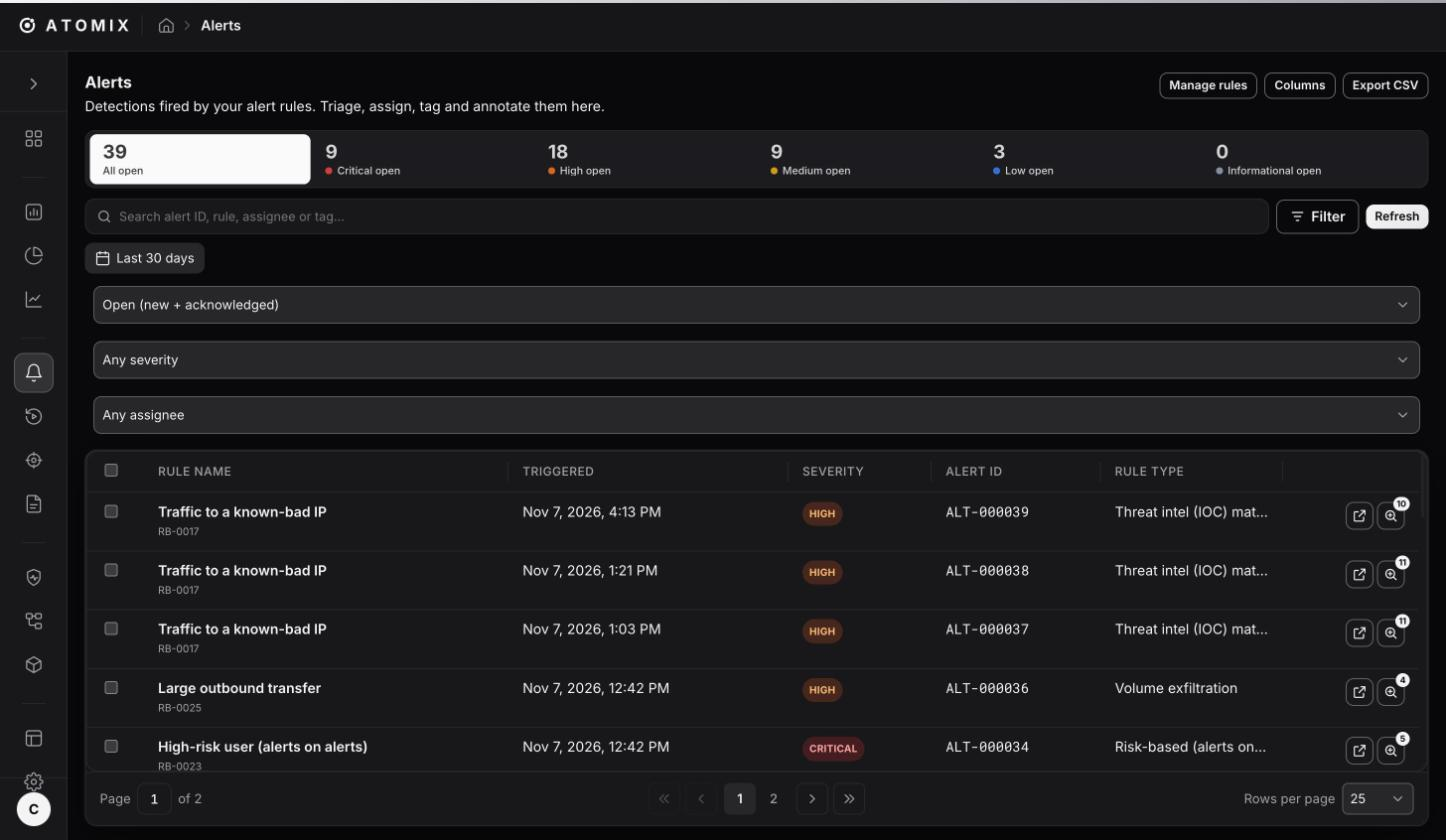
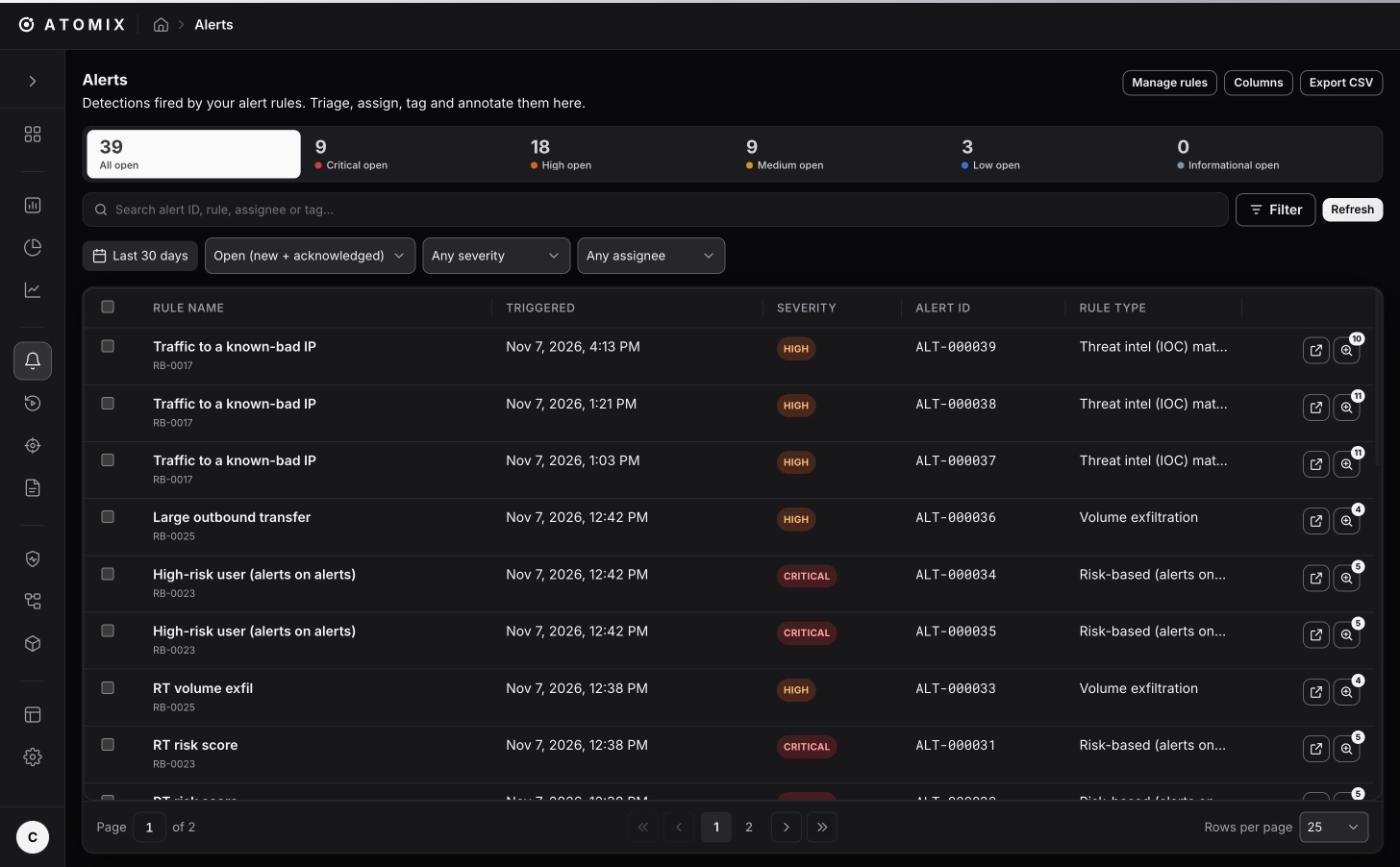
Recapture product screenshots after the toolbar dropdown fix

diff --git a/index.html b/index.html
@@ -61,7 +61,7 @@
 
 <section class="dark hero-shot" aria-label="Discover in Atomix">
   <div class="wrap">
-    <figure class="shot" style="margin:0"><img src="assets/img/discover.jpg" alt="Atomix Discover: 590,746 events over a month on the EDR-Network index, with the histogram and the first page of documents" width="1446" height="840" loading="eager" onerror="this.closest('section').hidden=true"></figure>
+    <figure class="shot" style="margin:0"><img src="assets/img/discover.jpg" alt="Atomix Discover: 590,675 events over a month on the EDR-Network index, with the histogram and the first page of documents" width="1400" height="867" loading="eager" onerror="this.closest('section').hidden=true"></figure>
   </div>
 </section>
 
@@ -200,9 +200,9 @@
       <h2 class="h-l">Alerts, rules and the editor.</h2>
     </div>
     <div class="shots">
-      <figure class="wide"><div class="shot"><img src="assets/img/alerts.jpg" alt="The Alerts page: open alerts by severity, filters, and a table of fired detections with rule, time, severity, alert ID and rule type" width="1446" height="840" loading="lazy" onerror="this.closest('figure').hidden=true"></div><figcaption><b>Alerts</b>Every detection with its severity, rule type, source events and observables. Acknowledge, assign, tag and close with a classification.</figcaption></figure>
-      <figure><div class="shot"><img src="assets/img/rules.jpg" alt="The Alert rules list: runbook IDs, names, severity, rule type, index, last run, alerts fired and an enabled toggle" width="1446" height="840" loading="lazy" onerror="this.closest('figure').hidden=true"></div><figcaption><b>Alert rules</b>Runbook IDs, MITRE techniques, last run and how often each rule fired.</figcaption></figure>
-      <figure><div class="shot"><img src="assets/img/rule-editor.jpg" alt="The new alert rule editor: basic info with rule ID, name, description, tags, severity and MITRE ATT&amp;CK tactics" width="1446" height="840" loading="lazy" onerror="this.closest('figure').hidden=true"></div><figcaption><b>Rule editor</b>Three steps: basic info, detection logic with a preview on real data, then review.</figcaption></figure>
+      <figure class="wide"><div class="shot"><img src="assets/img/alerts.jpg" alt="The Alerts page: open alerts by severity, filters, and a table of fired detections with rule, time, severity, alert ID and rule type" width="1400" height="867" loading="lazy" onerror="this.closest('figure').hidden=true"></div><figcaption><b>Alerts</b>Every detection with its severity, rule type, source events and observables. Acknowledge, assign, tag and close with a classification.</figcaption></figure>
+      <figure><div class="shot"><img src="assets/img/rules.jpg" alt="The Alert rules list: runbook IDs, names, severity, rule type, index, last run, alerts fired and an enabled toggle" width="1400" height="867" loading="lazy" onerror="this.closest('figure').hidden=true"></div><figcaption><b>Alert rules</b>Runbook IDs, MITRE techniques, last run and how often each rule fired.</figcaption></figure>
+      <figure><div class="shot"><img src="assets/img/rule-editor.jpg" alt="The new alert rule editor: basic info with rule ID, name, description, tags, severity and MITRE ATT&amp;CK tactics" width="1400" height="867" loading="lazy" onerror="this.closest('figure').hidden=true"></div><figcaption><b>Rule editor</b>Three steps: basic info, detection logic with a preview on real data, then review.</figcaption></figure>
     </div>
   </div>
 </section>
